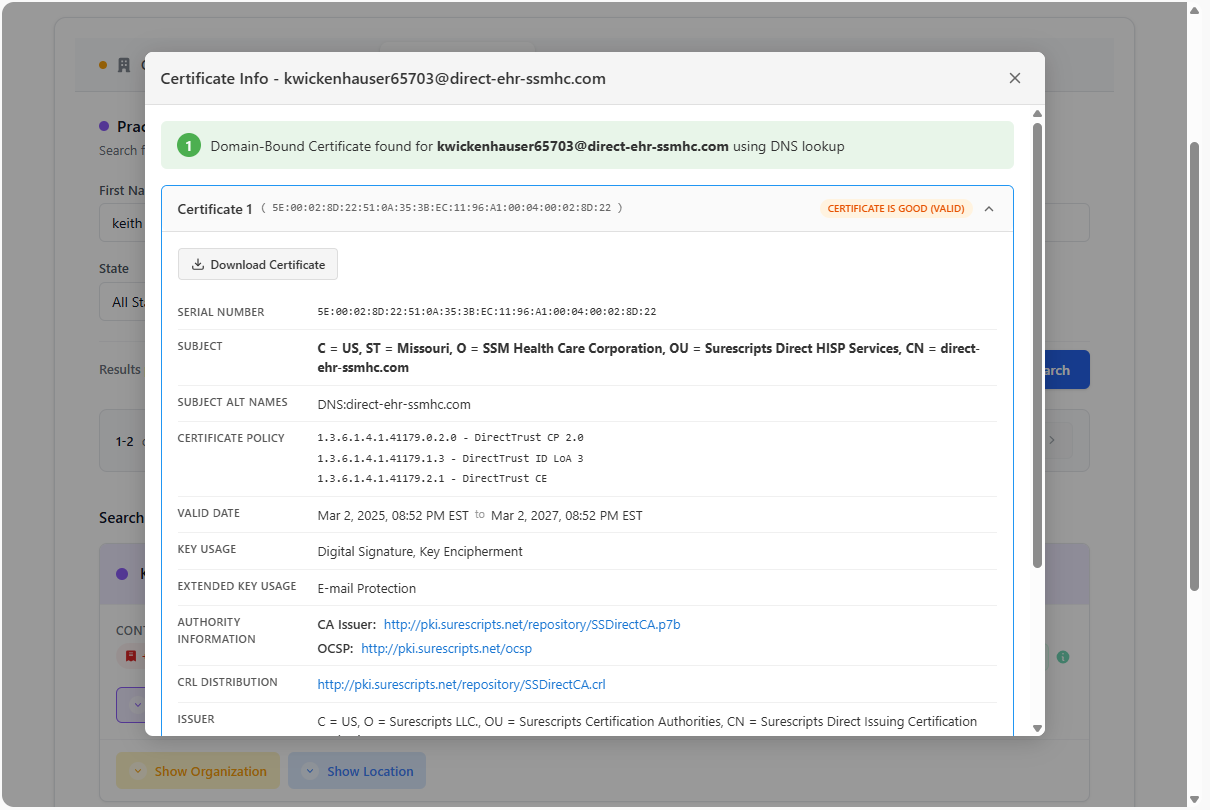
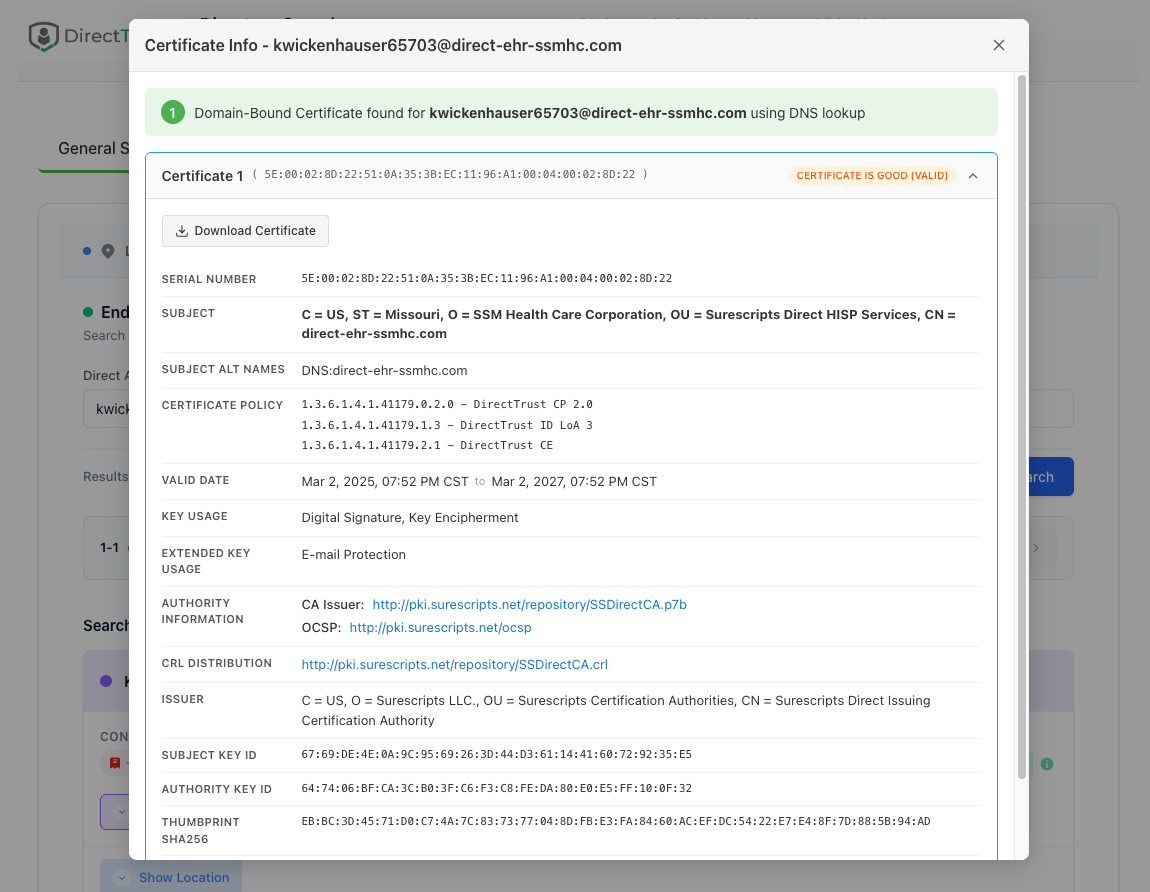
Removed references from search by organization in search tool.
The search by organization options has been temporarily removed from the
directory search tool and references to it in the documentation and the
screenshot have been removed.

Changed region(s): [[0.0, 0.0, 1.0, 1.0], [0.6696, 0.2469, 0.8217, 0.2778], [0.7, 0.1852, 0.8217, 0.216]]

diff --git a/docs/directory-search.md b/docs/directory-search.md
@@ -4,16 +4,17 @@ title: Directory Search
 
 # Directory Search
 
-The Directory Search Tool makes looking up Directory listings easy to support troubleshooting and analysis of reported issues, as well as just searching the DirectTrust directory. The Directory Search tool embeds the DirectTrust SMART-on-FHIR Directory Search application directly within DirectTrust Tools. This allows users to search for organizations, individuals, and endpoints published in the DirectTrust FHIR Directory without leaving the platform.
+The Directory Search Tool makes looking up Directory listings easy to support troubleshooting and analysis of reported issues, as well as just searching the DirectTrust directory. The Directory Search tool embeds the DirectTrust SMART-on-FHIR Directory Search application directly within DirectTrust Tools. This allows users to search for locations, individuals, and endpoints published in the DirectTrust FHIR Directory without leaving the platform.
 
-![Directory Search interface with Organization, Location, Practitioner, and Endpoint search tabs](/images/directory-search/1.png)
+![Directory Search interface with Location, Practitioner, and Endpoint search tabs](/images/directory-search/1.png)
 
-*Directory Search interface with Organization, Location, Practitioner, and Endpoint search tabs*
+*Directory Search interface with Location, Practitioner, and Endpoint search tabs*
 
 ## Workflow
 
 -   Navigate to **Directory Tools > Directory Search**.
--   Use the search interface to search by organization name, Direct address, NPI, or other criteria depending on the search tab selected.
+-   Use the search interface to search by location name, provider name Direct address, NPI, or other criteria 
+depending on the search tab selected.
 -   Click the search button.
 -   The first n search results are displayed within the application. You can page through additional search results using the **Previous** and **Next** buttons.
 
